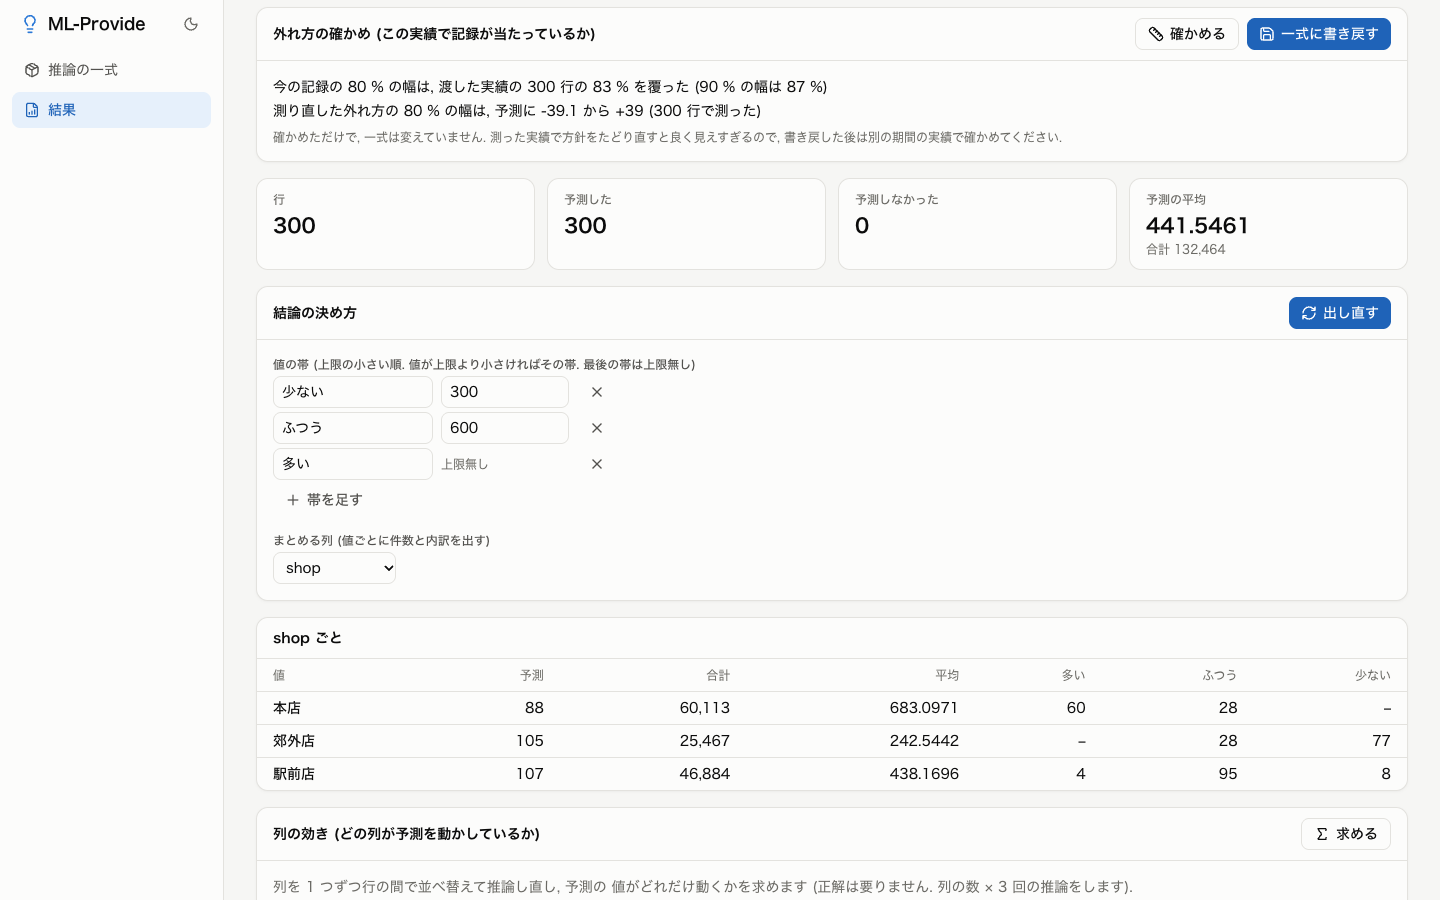
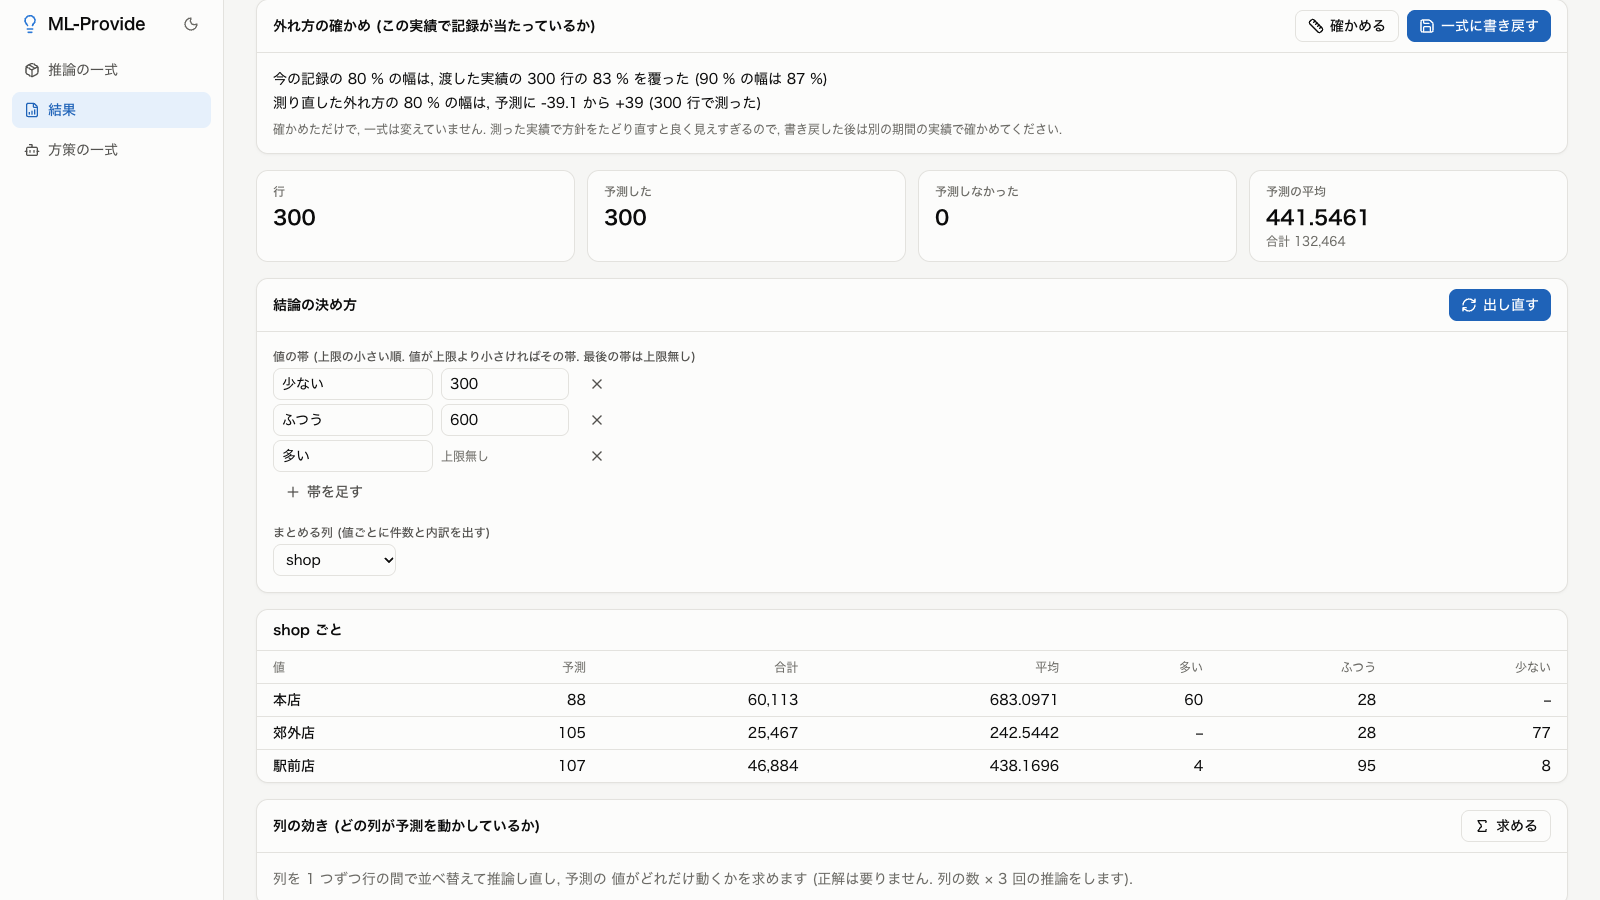
README の画面の例を撮る仕組みを足し, 方策の画面を加えて撮り直す (#78)

diff --git a/frontend/e2e/screens.ts b/frontend/e2e/screens.ts
@@ -1,0 +1,163 @@
+/// <reference lib="dom" />
+/// <reference lib="dom.iterable" />
+// README と操作ガイドの画面の例 (docs/images/*.png) を撮る (CI では使わない).
+// 先に pnpm build をして, 別の端末で bash e2e/screens.sh を起動しておき,
+// frontend で node e2e/screens.ts を実行する
+import { resolve } from 'node:path'
+
+import { chromium, expect, type Locator, type Page } from '@playwright/test'
+
+const port = Number(process.env.SCREENS_PORT ?? 8797)
+const base = `http://127.0.0.1:${port}`
+const home = resolve('e2e/.screens')
+const out = resolve('../docs/images')
+
+/** 画面に出る作業用の置き場 (ホーム) の場所を ~ で示す (手元の場所を写さない) */
+function hideHome(prefix: string) {
+  const swap = (text: string) => text.split(prefix).join('~')
+  const run = () => {
+    const walker = document.createTreeWalker(document.body, NodeFilter.SHOW_TEXT)
+    for (let node = walker.nextNode(); node; node = walker.nextNode())
+      if (node.nodeValue?.includes(prefix)) node.nodeValue = swap(node.nodeValue)
+    for (const input of document.querySelectorAll('input'))
+      if (input.value.includes(prefix)) input.value = swap(input.value)
+  }
+  document.addEventListener('DOMContentLoaded', () => {
+    new MutationObserver(run).observe(document.body, {
+      subtree: true,
+      childList: true,
+      characterData: true,
+    })
+    setInterval(run, 100)
+  })
+}
+
+/** 要素を本文の上の端に寄せる */
+async function scrollTo(target: Locator) {
+  // 本文の欄だけを送る (scrollIntoView はページ全体も送り, 下に空白が出る)
+  await target.evaluate((element) => {
+    const main = document.querySelector('main')!
+    const top = element.getBoundingClientRect().top - main.getBoundingClientRect().top
+    main.scrollBy(0, top - 16)
+  })
+}
+
+async function shot(page: Page, name: string) {
+  // 場所の置き換えと描画が済むのを待つ
+  await page.waitForTimeout(800)
+  await page.mouse.move(0, 0)
+  await page.screenshot({ path: `${out}/${name}.png` })
+}
+
+/** 一式を開き, 見本のデータ (新しいか過去) で推論して結果の画面に移る */
+async function infer(page: Page, bundle: string, sample: RegExp, ahead = false) {
+  await page.goto(`${base}/`)
+  await page.getByRole('link', { name: bundle }).first().click()
+  await page.getByRole('button', { name: sample }).click()
+  if (ahead) await page.getByLabel(/何段も先まで予測する/).check()
+  await page.getByRole('button', { name: '推論する' }).click()
+  await expect(page.getByText(/件のうち/).first()).toBeVisible({ timeout: 60_000 })
+}
+
+const churn = '見本: 解約の予測 (表の分類)'
+const visits = '見本: 来店数の予測 (表の回帰)'
+const sales = '見本: 日々の売上の予測 (時系列, 先の予測)'
+
+const browser = await chromium.launch({ channel: process.env.CI ? undefined : 'chrome' })
+const context = await browser.newContext({
+  viewport: { width: 1600, height: 900 },
+  extraHTTPHeaders: { 'x-provide-token': 'e2e-token' },
+})
+await context.addInitScript(hideHome, home)
+const page = await context.newPage()
+
+// 一覧: 見本の一式を入れる (その場で学習するので長めに待つ)
+await page.goto(`${base}/`)
+await page.getByRole('button', { name: '見本の一式を入れる' }).click()
+await expect(page.getByRole('link', { name: churn })).toBeVisible({ timeout: 180_000 })
+await expect(page.getByRole('link', { name: sales })).toBeVisible({ timeout: 180_000 })
+await shot(page, 'bundles')
+
+// 学習の結果から作る
+await page.getByRole('button', { name: '学習の結果から作る' }).click()
+await page.getByLabel('名前', { exact: true }).fill('解約の予測')
+await shot(page, 'create')
+
+// 一式の画面
+await page.goto(`${base}/`)
+await page.getByRole('link', { name: churn }).click()
+await expect(page.getByText('一式での評価')).toBeVisible()
+await page.getByRole('button', { name: /見本の新しいデータ/ }).click()
+await shot(page, 'bundle')
+
+// 意思決定の欄
+await scrollTo(page.getByRole('region', { name: '意思決定' }))
+await shot(page, 'decision-form')
+
+// 結果: 結論と意思決定 (新しいデータ 50 行)
+await page.getByRole('button', { name: '推論する' }).click()
+await expect(page.getByText(/件のうち/).first()).toBeVisible({ timeout: 60_000 })
+await shot(page, 'result')
+
+// 予測の表
+await scrollTo(page.getByRole('table', { name: '予測と判断の表' }))
+await shot(page, 'predictions')
+
+// 決め方を変えて出し直し, 保留で絞る
+await page.getByLabel('陽性のクラス').selectOption('')
+await page.getByLabel(/確信の下限/).fill('0.8')
+await page.getByRole('button', { name: '出し直す' }).click()
+await expect(page.getByRole('list', { name: '判断の内訳' })).toContainText('保留')
+await page.getByLabel('判断で絞る').selectOption('保留')
+await scrollTo(page.getByRole('heading', { name: '予測の表' }))
+await shot(page, 'reconclude')
+
+// 過去のデータ 300 行でたどり直す
+await infer(page, churn, /見本の過去のデータ/)
+await page.getByRole('button', { name: '過去のデータでたどり直す' }).click()
+const replay = page.getByRole('region', { name: 'たどり直し' })
+await expect(replay).toContainText('この方針', { timeout: 60_000 })
+await scrollTo(page.getByRole('heading', { name: /^意思決定/ }))
+await shot(page, 'decision-result')
+
+// 量を決める: 日々の売上の先の 7 日
+await infer(page, sales, /見本の新しいデータ/, true)
+await scrollTo(page.getByRole('heading', { name: /^意思決定/ }))
+await shot(page, 'decision-quantity')
+
+// 回帰: 値の帯と店ごと
+await infer(page, visits, /見本の新しいデータ/)
+await expect(page.getByRole('heading', { name: 'shop ごと' })).toBeVisible()
+await shot(page, 'regression')
+
+// 列の効き
+await page.getByRole('button', { name: '求める' }).click()
+const effects = page.getByRole('list', { name: '列の効き' })
+await expect(effects).toContainText('shop', { timeout: 60_000 })
+await scrollTo(page.getByRole('heading', { name: /^列の効き/ }))
+await shot(page, 'explain')
+
+// 外れ方の確かめ: 来店数の過去のデータ
+await infer(page, visits, /見本の過去のデータ/)
+await page.getByRole('button', { name: '確かめる' }).click()
+await expect(page.getByRole('list', { name: '外れ方の確かめの結果' })).toContainText('300 行', {
+  timeout: 60_000,
+})
+await scrollTo(page.getByRole('heading', { name: /^外れ方の確かめ/ }))
+await shot(page, 'remeasure')
+
+// 方策の一式: 実験の一覧から登録して行動を決める
+await page.goto(`${base}/policies`)
+await page.getByRole('button', { name: '実験の一覧から登録' }).click()
+await page
+  .getByRole('dialog', { name: '実験の一覧から登録' })
+  .getByRole('button', { name: /cartpole.* を登録/ })
+  .click()
+await page
+  .getByLabel(/^観測/)
+  .fill('0.5478467492858172, -0.9208531449445188, -0.18361059042552214, -1.9338894578858836')
+await page.getByRole('button', { name: '行動を決める' }).click()
+await expect(page.getByRole('status').filter({ hasText: '行動' })).toContainText('そのまま')
+await shot(page, 'policy')
+
+await browser.close()

diff --git a/frontend/e2e/provide.spec.ts b/frontend/e2e/provide.spec.ts
@@ -667,7 +667,7 @@ test('骨組みの学習が実験の中に書き出した方策の一式を, 実
   const run = path.resolve(
     import.meta.dirname,
     '.work',
-    'project',
+    'policy-project',
     'outputs',
     'cartpole',
     '2026-01-04',
@@ -682,12 +682,12 @@ test('骨組みの学習が実験の中に書き出した方策の一式を, 実
   // 推論の一式の実験は並べない
   await expect(table).not.toContainText('sales/2026-01-02/09-00-00')
   await dialog
-    .getByRole('button', { name: '総菜の作る量 (cartpole/2026-01-04/09-00-00) を登録' })
+    .getByRole('button', { name: '棒を立てる制御 (cartpole/2026-01-04/09-00-00) を登録' })
     .click()
 
   // 方策の画面に移り, 一式に写した定義から組み立てた方策で行動を決める
   await expect(
-    page.getByRole('heading', { name: '総菜の作る量 (cartpole/2026-01-04/09-00-00)' }),
+    page.getByRole('heading', { name: '棒を立てる制御 (cartpole/2026-01-04/09-00-00)' }),
   ).toBeVisible({ timeout: 30_000 })
   await page
     .getByLabel(/^観測/)

diff --git a/README.md b/README.md
@@ -8,20 +8,20 @@
 
 <table>
   <tr>
-    <td><img src="docs/images/bundles.png" alt="推論の一式の一覧: 見本の 4 つの一式 (表の分類, 表の回帰, 文の分類, 時系列の予測)"></td>
     <td><img src="docs/images/bundle.png" alt="一式の画面: 問題の設定, 推論するデータ, 意思決定と結論の決め方の欄, この一式の過去の結果"></td>
-  </tr>
-  <tr>
     <td><img src="docs/images/predictions.png" alt="予測の表: 予測, 確信, クラスごとの確率, 行ごとの行動と判断を元の列に足した表"></td>
-    <td><img src="docs/images/decision-result.png" alt="意思決定と, 過去のデータでのたどり直し: この方針と確率の高い順の実際の得と, 差の 90 % の幅"></td>
   </tr>
   <tr>
+    <td><img src="docs/images/decision-result.png" alt="意思決定と, 過去のデータでのたどり直し: この方針と確率の高い順の実際の得と, 差の 90 % の幅"></td>
     <td><img src="docs/images/decision-quantity.png" alt="量を決める意思決定: 欠品の損 3, 売れ残りの損 1 で, 先の 7 日に置く量とその前提"></td>
+  </tr>
+  <tr>
     <td><img src="docs/images/explain.png" alt="列の効き: 来店数の予測が店, 気温, 休日, 販促の順に頼っていることを示す横棒"></td>
+    <td><img src="docs/images/policy.png" alt="方策の一式の画面: 観測と行動の空間, 守り, 観測から決めた行動と守りの結果"></td>
   </tr>
 </table>
 
-画面の例は, 「見本の一式を入れる」で入る見本 (作り方の分かる合成のデータで, その場で学習した小さなモデル). 一番上と予測の表は解約の予測の新しいデータ 50 行, たどり直しは解約の予測の過去のデータ 300 行, 量を決めるのは日々の売上の先の 7 日, 列の効きは来店数の予測の新しいデータ. 置き場のパスは既定の `~/.ml-provide` で示している.
+画面の例は, 「見本の一式を入れる」で入る見本 (作り方の分かる合成のデータで, その場で学習した小さなモデル). 一番上と予測の表は解約の予測の新しいデータ 50 行, たどり直しは解約の予測の過去のデータ 300 行, 量を決めるのは日々の売上の先の 7 日, 列の効きは来店数の予測の新しいデータ. 方策は, 方策の骨組みの学習が実験の中に書き出した CartPole の方策の一式を「実験の一覧から登録」で登録したもの. 置き場のパスは既定の `~/.ml-provide` で示している.
 
 ## できること
 
@@ -74,6 +74,8 @@ make dev-frontend   # 画面 (別の端末で)
 make check          # lint, 型検査, テスト
 cd frontend && pnpm e2e   # 画面の通しのテスト
 ```
+
+README と操作ガイドの画面の例 (`docs/images/`) は, 画面の通しのテストと同じ見本で撮る. `cd frontend && pnpm build` の後, `bash e2e/screens.sh` で起動し, 別の端末の `frontend` で `node e2e/screens.ts` を実行する.
 
 | ディレクトリ | 内容 |
 | --- | --- |
